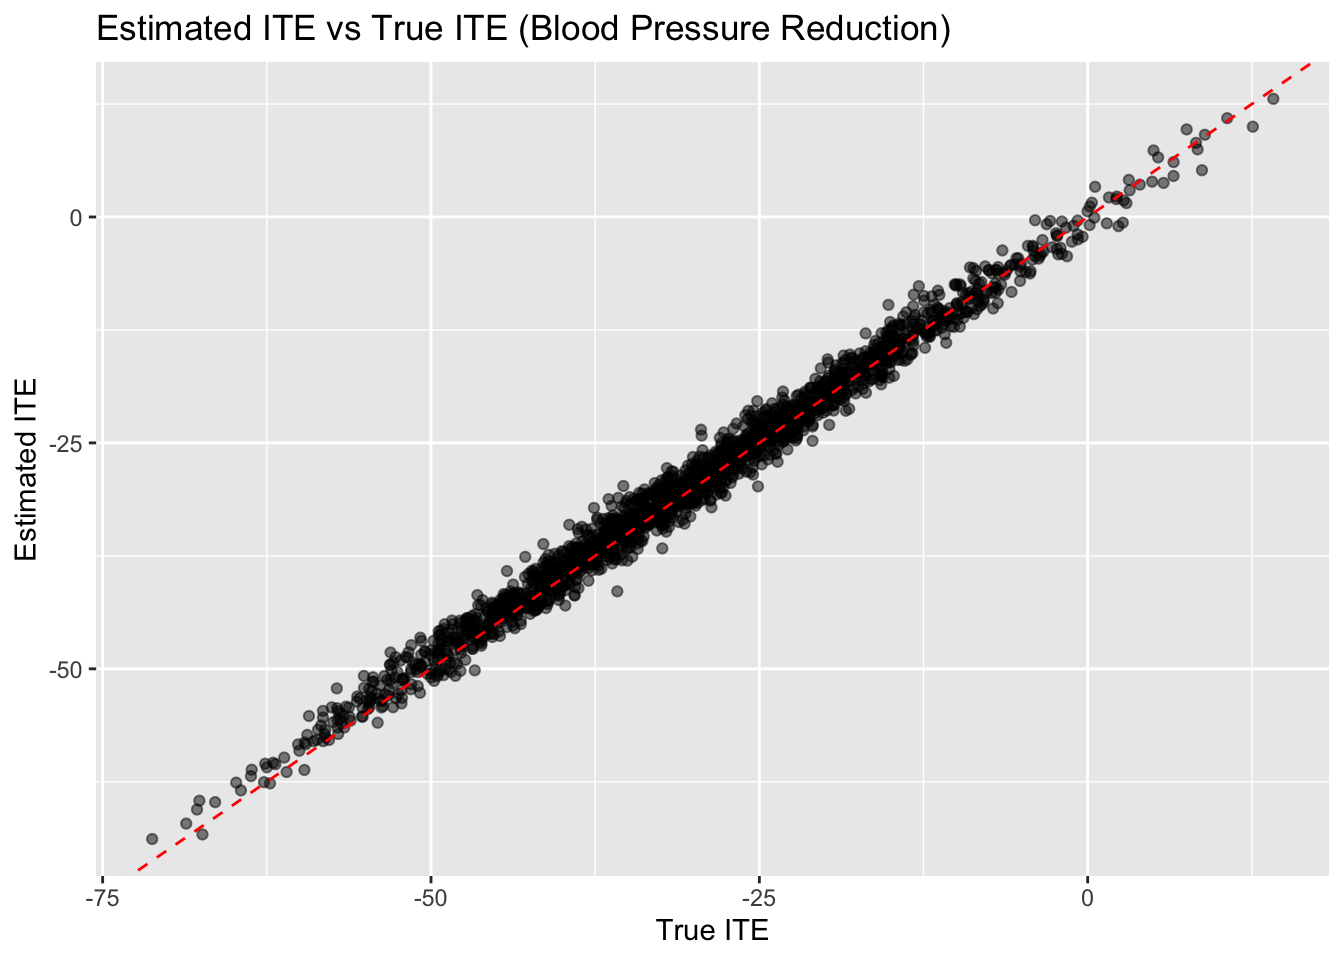
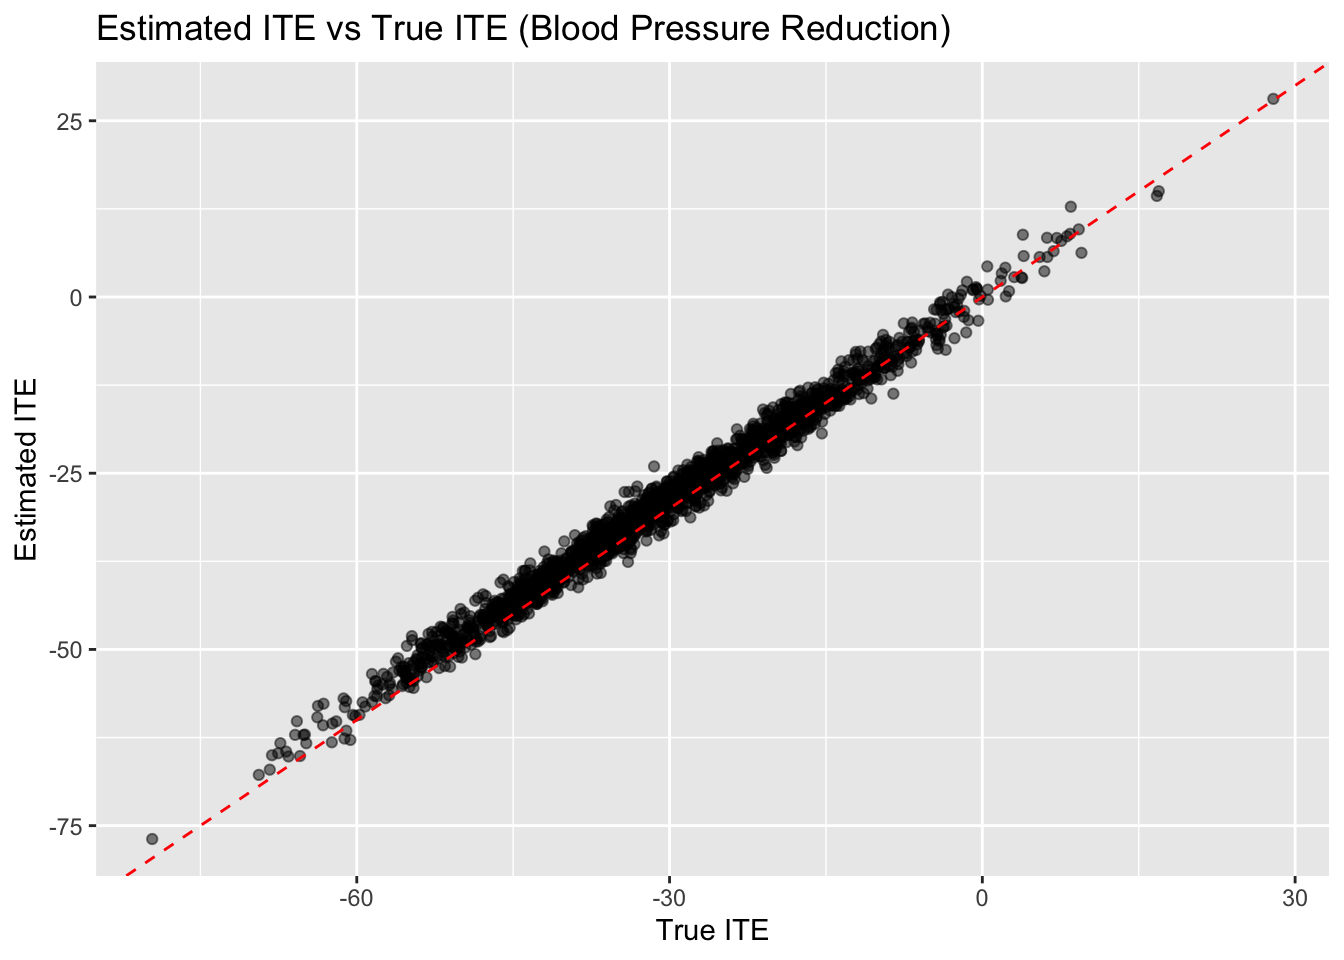
update week 1

diff --git a/docs/foundations-causal-thinking-in-public-health.html b/docs/foundations-causal-thinking-in-public-health.html
@@ -332,7 +332,7 @@ code span.wa { color: #60a0b0; font-weight: bold; font-style: italic; } /* Warni
 <pre><code>## `geom_smooth()` using formula = &#39;y ~ x&#39;
 ## `geom_smooth()` using formula = &#39;y ~ x&#39;</code></pre>
 <p><img src="Causal-Inference-Graduate_files/figure-html/unnamed-chunk-1-1.png" width="672" /></p>
-<pre><code>## [1] 0.1500742 0.0995250 0.2982100 0.1999150</code></pre>
+<pre><code>## [1] 0.1501008 0.1001850 0.2984300 0.2000042</code></pre>
 </div>
 <div id="introduction-to-counterfactuals-and-potential-outcomes" class="section level2 hasAnchor" number="1.2">
 <h2><span class="header-section-number">1.2</span> 1.2 Introduction to Counterfactuals and Potential Outcomes<a href="foundations-causal-thinking-in-public-health.html#introduction-to-counterfactuals-and-potential-outcomes" class="anchor-section" aria-label="Anchor link to header"></a></h2>
@@ -374,13 +374,13 @@ The causal effect for an individual is the difference: τi = Yi(1) − Yi(0)</p>
 <span id="cb5-22"><a href="foundations-causal-thinking-in-public-health.html#cb5-22" tabindex="-1"></a>)</span>
 <span id="cb5-23"><a href="foundations-causal-thinking-in-public-health.html#cb5-23" tabindex="-1"></a></span>
 <span id="cb5-24"><a href="foundations-causal-thinking-in-public-health.html#cb5-24" tabindex="-1"></a><span class="fu">head</span>(data)</span></code></pre></div>
-<pre><code>##        age      bmi cholesterol treatment         y  true_ite
-## 1 36.57600 32.36516    141.8756         1 123.51945 -31.13074
-## 2 55.58054 25.50120    142.0610         1  95.27364 -53.85332
-## 3 61.31550 20.94375    166.9792         1  88.21702 -50.83468
-## 4 48.08050 21.23296    181.9293         1 122.71042 -33.82283
-## 5 53.62292 26.89471    242.4462         1 148.73143 -19.82131
-## 6 50.21833 23.62856    208.4931         1 133.39473 -25.39267</code></pre>
+<pre><code>##        age      bmi cholesterol treatment        y   true_ite
+## 1 51.21239 19.32571    199.1355         1 122.0544 -30.593752
+## 2 46.71113 18.38997    220.9961         1 140.2134 -21.167480
+## 3 35.14412 24.18724    269.4651         1 193.1101   6.837494
+## 4 34.57732 21.21429    224.7765         1 160.8229  -4.397648
+## 5 45.31836 32.00460    221.8089         1 147.0220 -18.600656
+## 6 50.34310 20.47678    214.2677         1 140.6280 -24.778958</code></pre>
 <p>Next, I estimated treatment effects using regression. Since I can’t observe both Y(0) and Y(1) for any individual, I used separate regressions for treatment and control groups. I used the models to predict counter factual outcomes for all patients and to compute the estimated ITE as the difference between Y(1) and Y(0).</p>
 <p>Step 2: Estimate Treatment Effects Using Regression</p>
 <div class="sourceCode" id="cb7"><pre class="sourceCode r"><code class="sourceCode r"><span id="cb7-1"><a href="foundations-causal-thinking-in-public-health.html#cb7-1" tabindex="-1"></a>control_model <span class="ot">&lt;-</span> <span class="fu">lm</span>(y <span class="sc">~</span> age <span class="sc">+</span> bmi <span class="sc">+</span> cholesterol, <span class="at">data =</span> data, <span class="at">subset =</span> (treatment <span class="sc">==</span> <span class="dv">0</span>))</span>
@@ -392,13 +392,13 @@ The causal effect for an individual is the difference: τi = Yi(1) − Yi(0)</p>
 <span id="cb7-7"><a href="foundations-causal-thinking-in-public-health.html#cb7-7" tabindex="-1"></a>data<span class="sc">$</span>ite_estimate <span class="ot">&lt;-</span> data<span class="sc">$</span>y1_hat <span class="sc">-</span> data<span class="sc">$</span>y0_hat</span>
 <span id="cb7-8"><a href="foundations-causal-thinking-in-public-health.html#cb7-8" tabindex="-1"></a></span>
 <span id="cb7-9"><a href="foundations-causal-thinking-in-public-health.html#cb7-9" tabindex="-1"></a><span class="fu">head</span>(data[<span class="fu">c</span>(<span class="st">&quot;ite_estimate&quot;</span>, <span class="st">&quot;y0_hat&quot;</span>, <span class="st">&quot;y1_hat&quot;</span>)])</span></code></pre></div>
-<pre><code>##   ite_estimate   y0_hat    y1_hat
-## 1    -33.75897 159.3057 125.54677
-## 2    -51.87280 147.1128  95.24001
-## 3    -49.83247 147.6672  97.83470
-## 4    -32.35006 157.4564 125.10632
-## 5    -20.82493 170.0330 149.20810
-## 6    -26.98837 163.0833 136.09490</code></pre>
+<pre><code>##   ite_estimate   y0_hat   y1_hat
+## 1   -29.969201 158.3034 128.3342
+## 2   -19.019231 164.6406 145.6214
+## 3     6.503107 182.2635 188.7666
+## 4    -6.819532 173.2662 166.4467
+## 5   -17.850332 170.1936 152.3433
+## 6   -24.491258 162.0081 137.5169</code></pre>
 <p>Now, I plotted the true ITE vs the estimated ITE. Here, each point is a patient, and the red dashed line represents the ideal estimation. If the point fits well with the line, then the model is accurate.</p>
 <p>Step 3: Visualizing the Estimated ITE</p>
 <div class="sourceCode" id="cb9"><pre class="sourceCode r"><code class="sourceCode r"><span id="cb9-1"><a href="foundations-causal-thinking-in-public-health.html#cb9-1" tabindex="-1"></a><span class="fu">library</span>(ggplot2)</span>
@@ -432,16 +432,16 @@ The causal effect for an individual is the difference: τi = Yi(1) − Yi(0)</p>
 <div class="sourceCode" id="cb11"><pre class="sourceCode r"><code class="sourceCode r"><span id="cb11-1"><a href="foundations-causal-thinking-in-public-health.html#cb11-1" tabindex="-1"></a>top_beneficiaries <span class="ot">&lt;-</span> data[<span class="fu">order</span>(data<span class="sc">$</span>ite_estimate), ][<span class="dv">1</span><span class="sc">:</span><span class="dv">10</span>, ]</span>
 <span id="cb11-2"><a href="foundations-causal-thinking-in-public-health.html#cb11-2" tabindex="-1"></a>top_beneficiaries[, <span class="fu">c</span>(<span class="st">&quot;age&quot;</span>, <span class="st">&quot;bmi&quot;</span>, <span class="st">&quot;cholesterol&quot;</span>, <span class="st">&quot;ite_estimate&quot;</span>)]</span></code></pre></div>
 <pre><code>##           age      bmi cholesterol ite_estimate
-## 1222 61.54490 29.77373    105.7476    -68.83360
-## 1054 65.86684 26.65806    121.1129    -68.32420
-## 1890 65.90101 23.34187    124.1502    -67.12310
-## 1259 68.95490 30.28159    142.4141    -65.57013
-## 413  86.77534 22.94660    203.3590    -64.75381
-## 283  64.88454 20.08257    128.1823    -64.59370
-## 1748 71.09901 26.65556    155.6790    -63.45385
-## 879  70.69876 25.42459    156.5306    -62.67788
-## 1800 67.69462 23.57400    145.9078    -62.59118
-## 548  69.00992 21.32057    149.7443    -62.54299</code></pre>
+## 890  79.56531 25.25102    132.2227    -76.89534
+## 1085 71.13526 20.28622    136.2727    -67.79399
+## 1671 65.88424 19.01770    123.1142    -67.05699
+## 530  66.57976 24.36929    131.6173    -65.18529
+## 1342 70.36012 28.86483    143.2993    -65.12207
+## 715  60.57192 21.67688    114.3072    -65.01186
+## 650  75.32424 14.62258    157.9358    -64.72851
+## 1893 78.52943 27.31188    169.1796    -64.49124
+## 311  56.74453 32.99274    109.4880    -63.31023
+## 1547 67.78288 27.14410    141.4462    -63.29710</code></pre>
 
 </div>
 </div>
